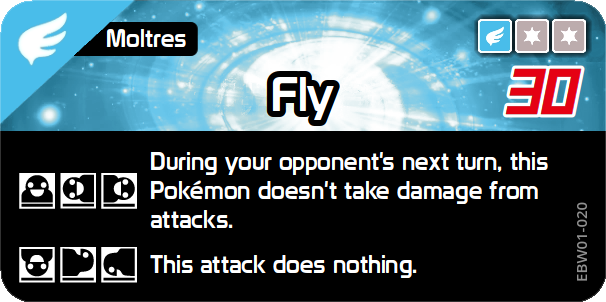
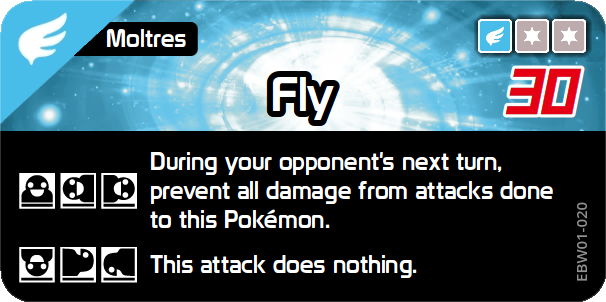
updated cards

Changed region(s): [[0.2376, 0.596, 0.9208, 0.7748], [0.8317, 0.5066, 0.9208, 0.5662]]

diff --git a/database/text/wazacards/ST/10-001_altaria.md b/database/text/wazacards/ST/10-001_altaria.md
@@ -23,20 +23,20 @@
 
 #### Fluffy Flight ?
 
-| Name      | Fluffy Flight ?                                                                                                                                 |
-| --------- | ----------------------------------------------------------------------------------------------------------------------------------------------- |
-| Japanese  | ふわふわひこう                                                                                                                                  |
-| Type      | Flying                                                                                                                                          |
-| Code      | STW10-002                                                                                                                                       |
-| Pokémon   | Altaria                                                                                                                                         |
-| Energy    | {Y}{Y}                                                                                                                                          |
-| Damage    | 20                                                                                                                                              |
-| Effect    |                                                                                                                                                 |
-| Standing  | On the opponent's next turn, if the Charakoro rolls {s1}{s2}, you do not take damage from attacks. (Any other effects of attacks still happen.) |
-| Handstand |                                                                                                                                                 |
-| Back      |                                                                                                                                                 |
-| Down      |                                                                                                                                                 |
-| Sideways  | On the opponent's next turn, if the Charakoro rolls {s1}{s2}, you do not take damage from attacks. (Any other effects of attacks still happen.) |
+| Name      | Fluffy Flight ?                                                                                                                                                  |
+| --------- | ---------------------------------------------------------------------------------------------------------------------------------------------------------------- |
+| Japanese  | ふわふわひこう                                                                                                                                                   |
+| Type      | Flying                                                                                                                                                           |
+| Code      | STW10-002                                                                                                                                                        |
+| Pokémon   | Altaria                                                                                                                                                          |
+| Energy    | {Y}{Y}                                                                                                                                                           |
+| Damage    | 20                                                                                                                                                               |
+| Effect    |                                                                                                                                                                  |
+| Standing  | On the opponent's next turn, if the Charakoro rolls {s1}{s2}, prevent all damage from attacks done to this Pokémon. (Any other effects of attacks still happen.) |
+| Handstand |                                                                                                                                                                  |
+| Back      |                                                                                                                                                                  |
+| Down      |                                                                                                                                                                  |
+| Sideways  | On the opponent's next turn, if the Charakoro rolls {s1}{s2}, prevent all damage from attacks done to this Pokémon. (Any other effects of attacks still happen.) |
 
 [Fluffy Flight](https://bandai-hobby.net/site/pokemon/plakoro/images/products/st10/01/img_wazacard02.webp)
 
